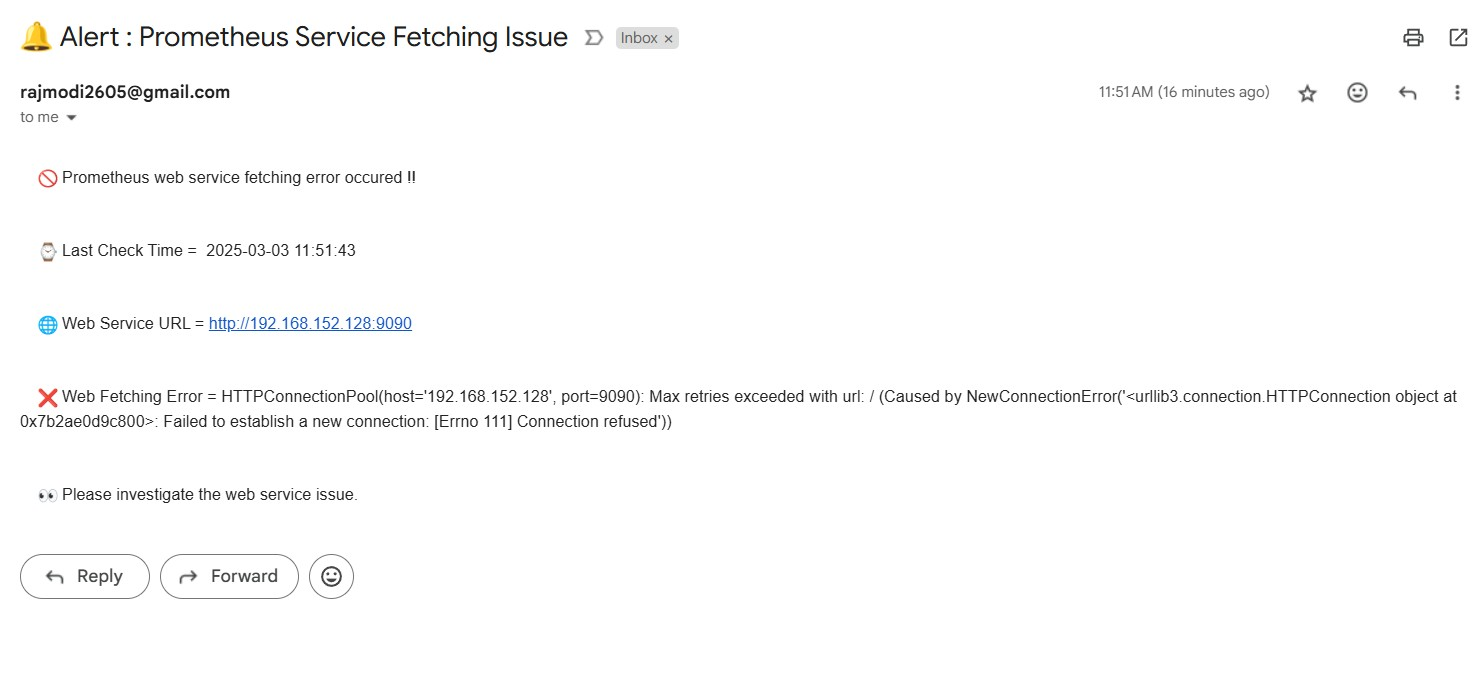
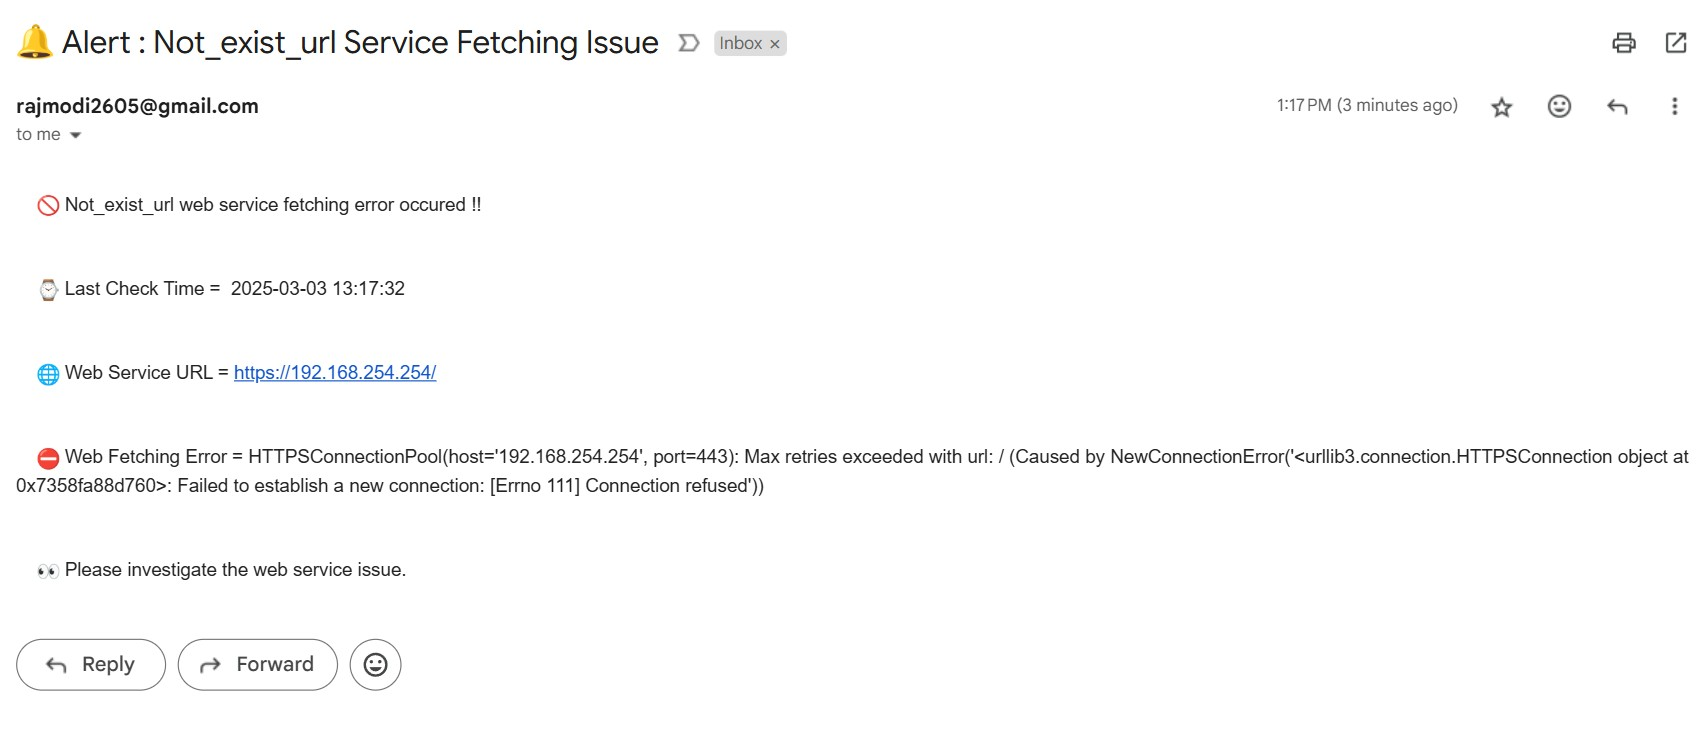
Modify Readme file & script
Modify Readme file & script

Modify Readme file & script

Modify Readme file & script

Modify Readme file & script

Modify Readme file & script

Modify Readme file & script

Modify Readme file & script

Modify Readme file & script

Modify Readme file & script

Modify Readme file & script

diff --git a/Web_Service_Health_Checker/Web_Service_Health_Checker.py b/Web_Service_Health_Checker/Web_Service_Health_Checker.py
@@ -41,10 +41,10 @@ def send_email_alert(web_name, web_url, downtime, http_code):
             email_server.starttls()
             email_server.login(email_from, email_pass)
             email_server.send_message(email_msg)
-            print("\nEmail alert sent successfully.")
+            print("\n📧 Email alert sent successfully.")
     except Exception as email_excep:
-            print(f"\nFailed to send email alert.")
-            print(f"\nReason to Failed send email : {email_excep}")
+            print(f"\n⛔ Failed to send email alert.")
+            print(f"\n📝 Reason to Failed send email : {email_excep}")
 
 
 # Send email alert if service exception occurs
@@ -60,7 +60,7 @@ def send_exeception_email_alert(web_name, web_url, downtime, web_execption):
     🚫 {web_name} web service fetching error occured !! \n\n
     ⌚ Last Check Time =  {downtime} \n\n
     🌐 Web Service URL = {web_url}\n\n
-    ❌ Web Fetching Error = {web_execption} \n\n
+    ⛔ Web Fetching Error = {web_execption} \n\n
     👀 Please investigate the web service issue.""")
 
     email_msg = MIMEText(email_body)
@@ -73,10 +73,10 @@ def send_exeception_email_alert(web_name, web_url, downtime, web_execption):
             email_server.starttls()
             email_server.login(email_from, email_pass)
             email_server.send_message(email_msg)
-            print("\nEmail alert sent successfully.")
+            print("\n📧 Email alert sent successfully.")
     except Exception as email_excep:
-            print(f"\nFailed to send email alert.")
-            print(f"\nReason to Failed send email : {email_excep}")
+            print(f"\n⛔ Failed to send email alert.")
+            print(f"\n📝 Reason to Failed send email : {email_excep}")
 
 
 # Check Service Health
@@ -89,21 +89,21 @@ def check_web_service():
             service_name = service['name']
             service_response = requests.get(service['url'], verify=False)
             if service_response.status_code == 200 or service_response.status_code == 403:
-                print(Fore.GREEN + f"\n\n{datetime.datetime.now()} : {service_name} Service is Healthy" + Style.RESET_ALL)
-                print(f"\nWeb Url : {service_url}")
-                print(f"\nResponse time : {service_response.elapsed.total_seconds()}")
+                print(Fore.GREEN + f"\n\n✅ {datetime.datetime.now()} => {service_name} Service is Healthy" + Style.RESET_ALL)
+                print(f"\n🌐 Web Url : {service_url}")
+                print(f"\n⌚ Response time : {service_response.elapsed.total_seconds()}")
                 print("\n= = = = = = = = = = = = = = = = = = = = = = = = = = = = = = = = = = = = = = = = = = = = = = = = = = = = = = = = = = = ")
             else:
-                print(Fore.RED + f"\n\n{datetime.datetime.now()} : {service_name} is NOT Reachable !!" + Style.RESET_ALL)
-                print(f"\nWeb Url : {service_url}")
-                print(f"\nHTTP Status Code : {service_response.status_code}")
-                print(f"\nResponse Time : {service_response.elapsed.total_seconds()}")
+                print(Fore.RED + f"\n\n❌ {datetime.datetime.now()} => {service_name} is NOT Reachable !!" + Style.RESET_ALL)
+                print(f"\n🌐 Web Url : {service_url}")
+                print(f"\n🔍 HTTP Status Code : {service_response.status_code}")
+                print(f"\n⌚ Response Time : {service_response.elapsed.total_seconds()}")
                 send_email_alert(service_name, service_url, datetime.datetime.now().strftime("%Y-%m-%d %H:%M:%S"), service_response.status_code)
                 print("\n= = = = = = = = = = = = = = = = = = = = = = = = = = = = = = = = = = = = = = = = = = = = = = = = = = = = = = = = = = = ")
         except requests.exceptions.RequestException as exception:
-                print(Fore.RED + f"\n\n{datetime.datetime.now()} : {service_name} Service Fetching Error!" + Style.RESET_ALL)
-                print(f"\nWeb Url : {service_url}")
-                print(f"\n{exception}")
+                print(Fore.RED + f"\n\n🚫 {datetime.datetime.now()} => {service_name} Service Fetching Error !!" + Style.RESET_ALL)
+                print(f"\n🌐 Web Url : {service_url}")
+                print(f"\n⛔ Error Detail : {exception}")
                 send_exeception_email_alert(service_name, service_url, datetime.datetime.now().strftime("%Y-%m-%d %H:%M:%S"), exception)
                 print("\n= = = = = = = = = = = = = = = = = = = = = = = = = = = = = = = = = = = = = = = = = = = = = = = = = = = = = = = = = = = ")
 

diff --git a/Web_Service_Health_Checker/README.md b/Web_Service_Health_Checker/README.md
@@ -2,6 +2,7 @@
 
 The objective of this Project is to continuously check multiple web service endpoint health and get an email alert if any endpoint is either unreachable or any error, exception occurs.
 <br>
+<br>
 
 ## Technology Used for the Project
 
@@ -10,6 +11,7 @@ The objective of this Project is to continuously check multiple web service endp
 - SMTP
 
 - Linux
+
 <br>
 
 ## Prerequisites
@@ -28,7 +30,6 @@ Here, I used Gmail for gettting email alert.
 <br> Save it somewhere safe.
 
 <br>
-
 
 ## Initial Steps
 1. Add email key in Linux environment variable
@@ -68,57 +69,57 @@ python Web_Service_Health_Checker.py
 
 ## Demonstration
 ``` bash
-2025-03-03 11:56:13.898211 : Jenkins Service is Healthy
+✅ 2025-03-03 13:17:03.253390 => Jenkins Service is Healthy
 
-Web Url : http://192.168.152.128:8080
+🌐 Web Url : http://192.168.152.128:8080
 
-Response time : 0.01085
+⌚ Response time : 0.012169
 
 = = = = = = = = = = = = = = = = = = = = = = = = = = = = = = = = = = = = = = = = = = = = = = = = = = = = = = = = = = =
 
 
-2025-03-03 11:56:13.912291 : Prometheus Service is Healthy
+✅ 2025-03-03 13:17:03.260800 => Prometheus Service is Healthy
 
-Web Url : http://192.168.152.128:9090
+🌐 Web Url : http://192.168.152.128:9090
 
-Response time : 0.008168
+⌚ Response time : 0.002035
 
 = = = = = = = = = = = = = = = = = = = = = = = = = = = = = = = = = = = = = = = = = = = = = = = = = = = = = = = = = = =
 /root/py_envs/lib/python3.12/site-packages/urllib3/connectionpool.py:1097: InsecureRequestWarning: Unverified HTTPS request is being made to host 'github.com'. Adding certificate verification is strongly advised. See: https://urllib3.readthedocs.io/en/latest/advanced-usage.html#tls-warnings
   warnings.warn(
 
 
-2025-03-03 11:56:14.887005 : GitHub Service is Healthy
+✅ 2025-03-03 13:17:03.725741 => GitHub Service is Healthy
 
-Web Url : https://github.com/
+🌐 Web Url : https://github.com/
 
-Response time : 0.598311
+⌚ Response time : 0.332207
 
 = = = = = = = = = = = = = = = = = = = = = = = = = = = = = = = = = = = = = = = = = = = = = = = = = = = = = = = = = = =
 /root/py_envs/lib/python3.12/site-packages/urllib3/connectionpool.py:1097: InsecureRequestWarning: Unverified HTTPS request is being made to host 'prometheus.io'. Adding certificate verification is strongly advised. See: https://urllib3.readthedocs.io/en/latest/advanced-usage.html#tls-warnings
   warnings.warn(
 
 
-2025-03-03 11:56:16.193711 : Prometheus_error_link is NOT Reachable !!
+❌ 2025-03-03 13:17:07.157247 => Prometheus_error_link is NOT Reachable !!
 
-Web Url : https://prometheus.io/events/
+🌐 Web Url : https://prometheus.io/events/
 
-HTTP Status Code : 404
+🔍 HTTP Status Code : 404
 
-Response Time : 1.278256
+⌚ Response Time : 3.428108
 
-Email alert sent successfully.
+📧 Email alert sent successfully.
 
 = = = = = = = = = = = = = = = = = = = = = = = = = = = = = = = = = = = = = = = = = = = = = = = = = = = = = = = = = = =
 
 
-2025-03-03 11:56:41.754163 : Not_exist_url Service Fetching Error!
+🚫 2025-03-03 13:17:32.835267 => Not_exist_url Service Fetching Error !!
 
-Web Url : https://192.168.254.254/
+🌐 Web Url : https://192.168.254.254/
 
-HTTPSConnectionPool(host='192.168.254.254', port=443): Max retries exceeded with url: / (Caused by NewConnectionError('<urllib3.connection.HTTPSConnection object at 0x7ec5c8b012b0>: Failed to establish a new connection: [Errno 111] Connection refused'))
+⛔ Error Detail : HTTPSConnectionPool(host='192.168.254.254', port=443): Max retries exceeded with url: / (Caused by NewConnectionError('<urllib3.connection.HTTPSConnection object at 0x7358fa88d760>: Failed to establish a new connection: [Errno 111] Connection refused'))
 
-Email alert sent successfully.
+📧 Email alert sent successfully.
 
 = = = = = = = = = = = = = = = = = = = = = = = = = = = = = = = = = = = = = = = = = = = = = = = = = = = = = = = = = = =
 
@@ -130,21 +131,20 @@ Email alert sent successfully.
 * * * * * * * * * * * * * * * * * * * * * * * *
 
 
-2025-03-03 11:57:01.573744 : Jenkins Service is Healthy
+✅ 2025-03-03 13:17:52.442144 => Jenkins Service is Healthy
 
-Web Url : http://192.168.152.128:8080
+🌐 Web Url : http://192.168.152.128:8080
 
-Response time : 0.013925
+⌚ Response time : 0.010943
 
 = = = = = = = = = = = = = = = = = = = = = = = = = = = = = = = = = = = = = = = = = = = = = = = = = = = = = = = = = = =
 
 
-2025-03-03 11:57:01.583842 : Prometheus Service is Healthy
+✅ 2025-03-03 13:17:52.448848 => Prometheus Service is Healthy
 
-Web Url : http://192.168.152.128:9090
+🌐 Web Url : http://192.168.152.128:9090
 
-Response time : 0.00181
-
+⌚ Response time : 0.001942
 .
 .
 .
@@ -155,24 +155,22 @@ Response time : 0.00181
 
 
 ### Email Alert IF web service is Unreachable
-![Email Alert for Timeout](images/Email_Alert _For_Timeout_Error.jpg)
+![Email_Alert _For_Timeout_Error](https://github.com/rmodi2605/SRE_Scripts/blob/main/Web_Service_Health_Checker/images/Email_Alert%20_For_Timeout_Error.jpg)
 <br>
 <br>
 
 
 ### Email Alert IF web servicce exception occurs
-![Email Alert for Unreachable](images/Email_Alert _For_Unreachable.jpg)
+![Email_Alert _For_Unreachable](https://github.com/rmodi2605/SRE_Scripts/blob/main/Web_Service_Health_Checker/images/Email_Alert%20_For_Unreachable.jpg)
 
 <br>
 
 
 ## Scope of Application
-- The Script Can be tringger with desired frequency with  <code style="color : red">**CronJob**</code>
-<br>
-<br>
-
-- It can be also use as a <code style="color : red">**Linux Web Health Check Service**</code>
-<br>
+- The Script Can be trigger with desired frequency with  <code style="color : Red">**CronJob**</code>
 <br>
 
-- The Script can integrate with any <code style="color : red">**Monitoring Platfroms**</code> to continuously check web Health Check every few minutes or seconds.
+- It can be also use as a <code style="color : Red">**Linux Web Health Check Service**</code>
+<br>
+
+- The Script can integrate with any <code style="color : Red">**Monitoring Platfroms**</code> to continuously check web Health Check every few minutes or seconds.
